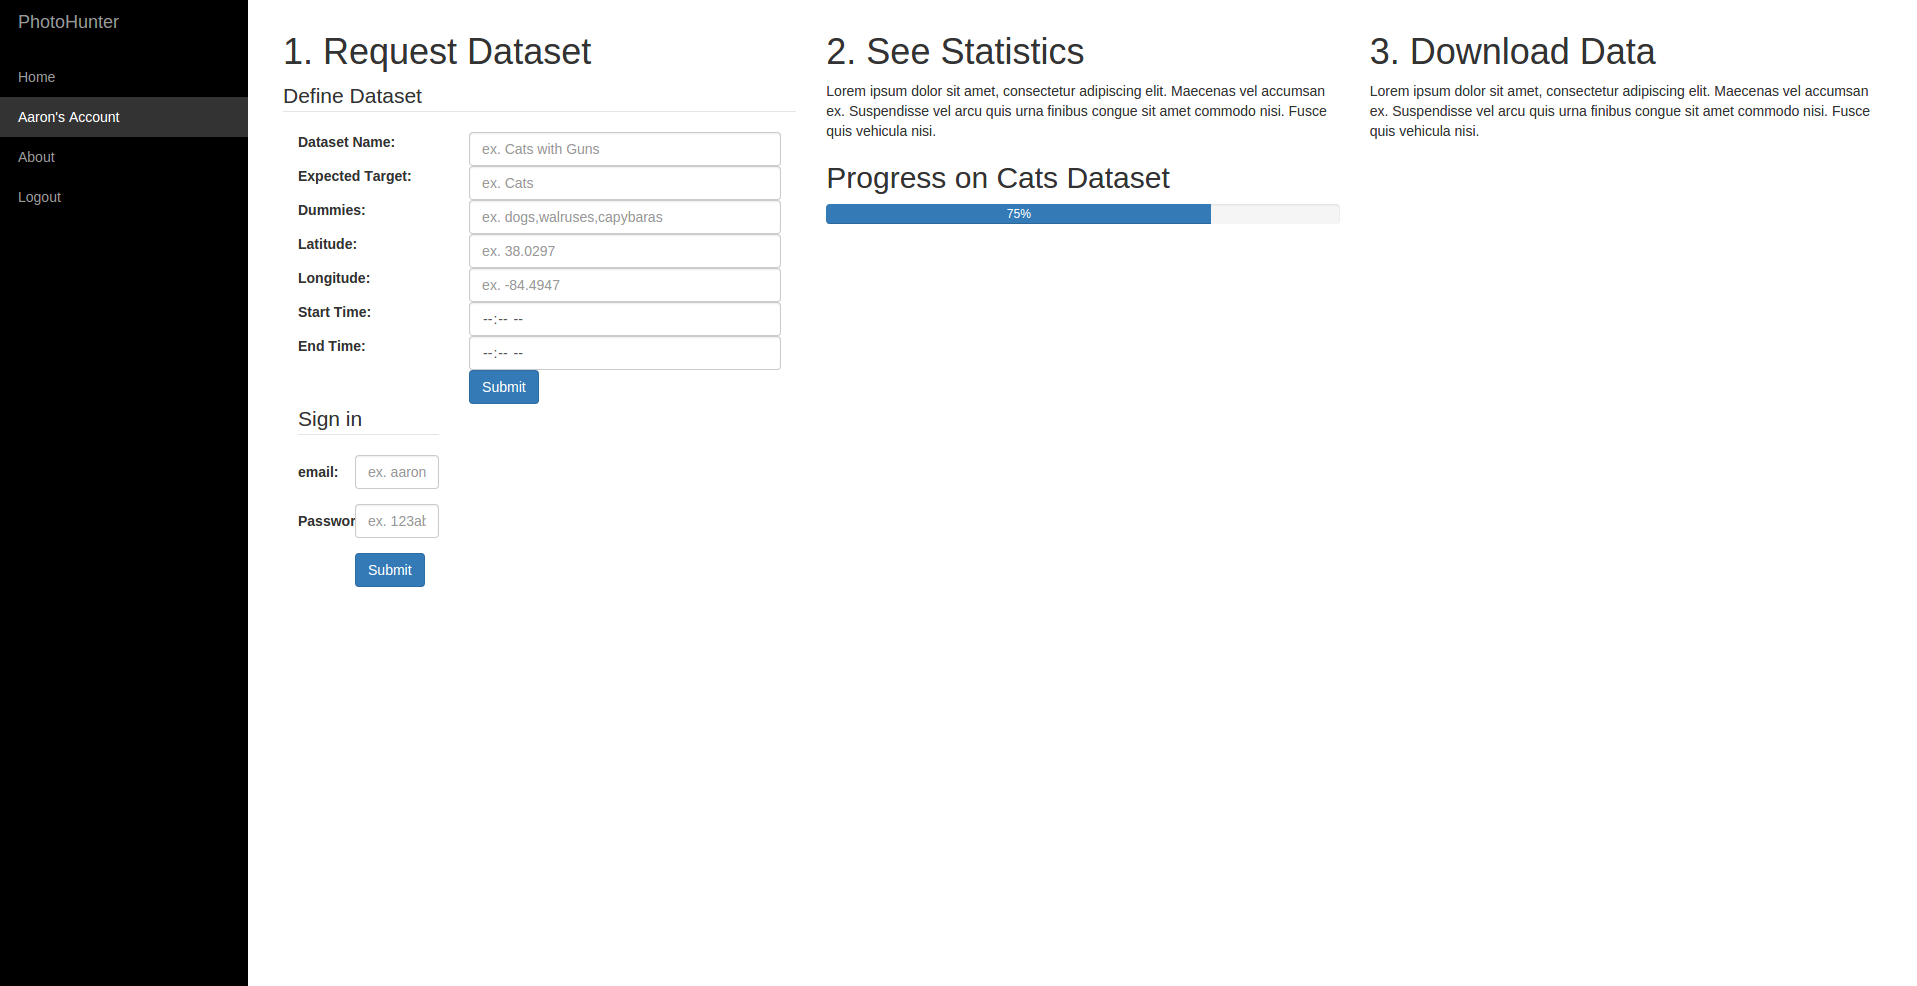
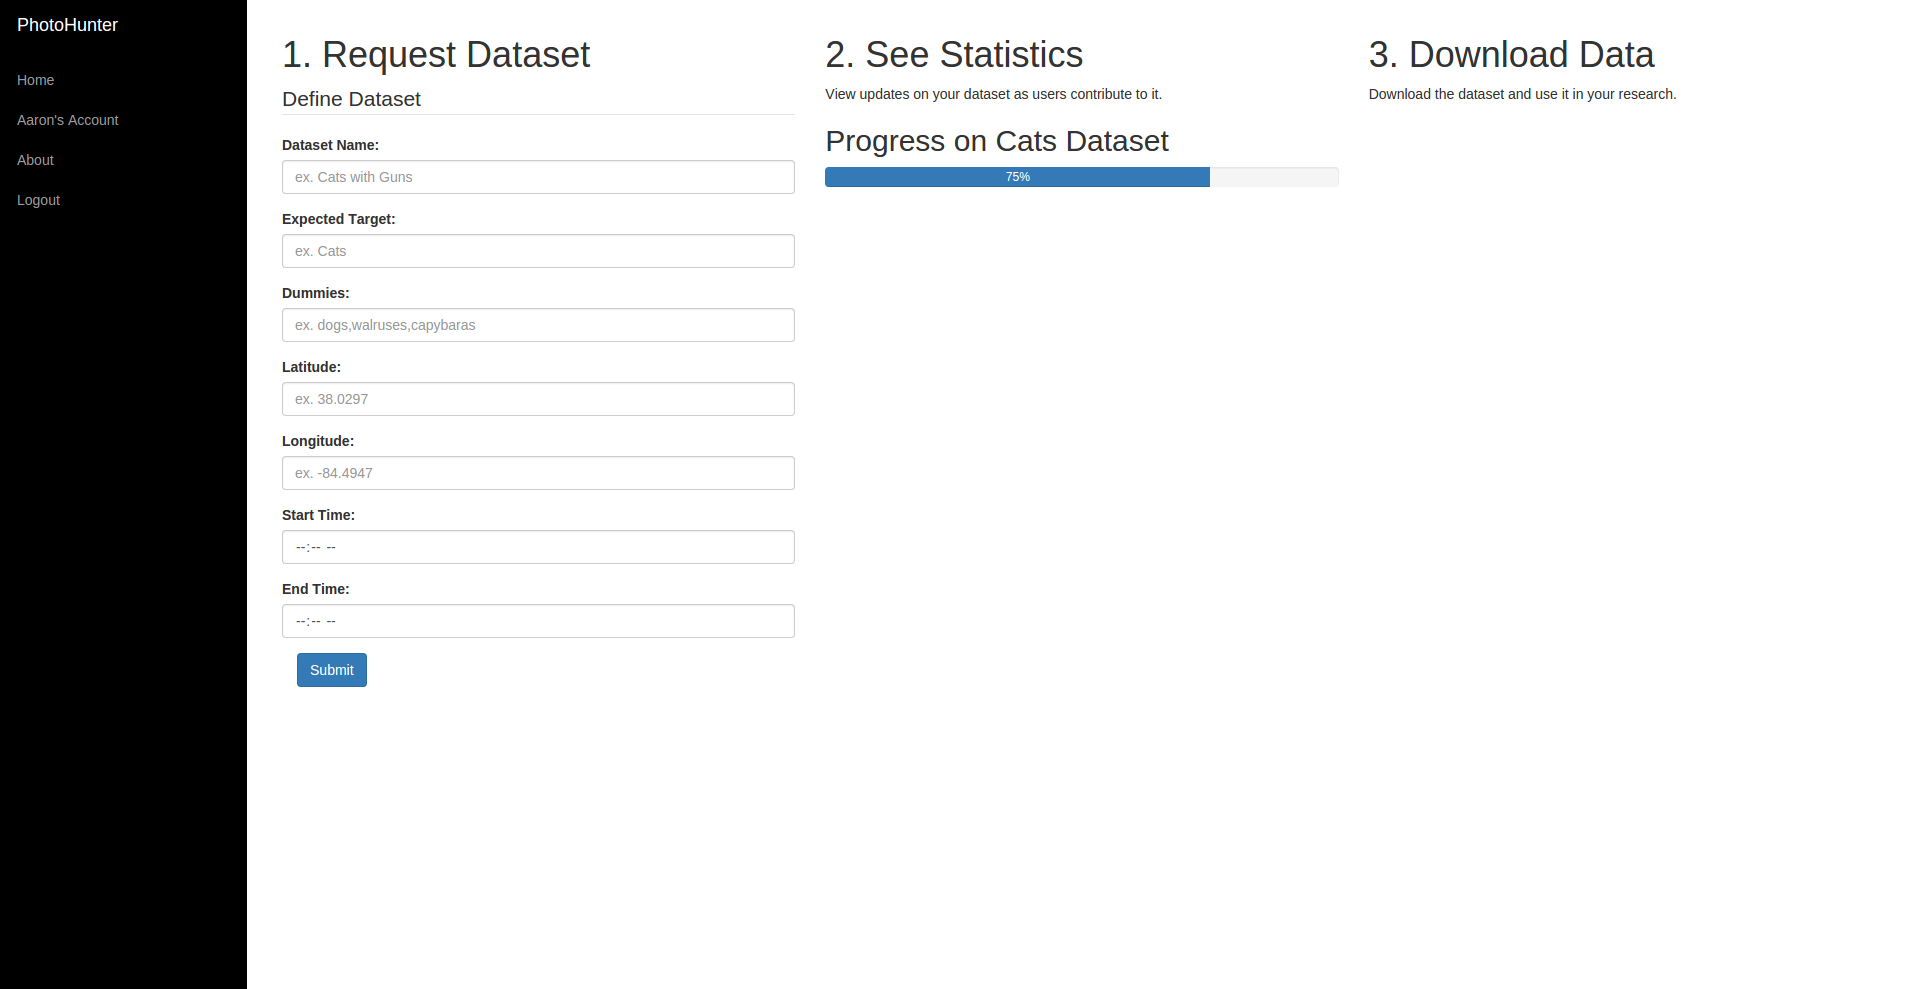
updating researching image and activity log

diff --git a/src/researcherinterface/templates/index.html b/src/researcherinterface/templates/index.html
@@ -134,14 +134,14 @@
 </form>
 
 
-	    {{else}}<p>  Lorem ipsum dolor sit amet, consectetur adipiscing elit. Maecenas vel accumsan ex. Suspendisse vel arcu quis urna finibus congue sit amet commodo nisi. Fusce quis vehicula nisi. </p>{{end}}
+	    {{else}}<p> Describe a dataset that suits your needs.</p>{{end}}
 	    
 	  
 	  </div>
 	  
 	  <div class = "col-lg-4">
 	    <h1> 2. See Statistics </h1>
-	    <p> Lorem ipsum dolor sit amet, consectetur adipiscing elit. Maecenas vel accumsan ex. Suspendisse vel arcu quis urna finibus congue sit amet commodo nisi. Fusce quis vehicula nisi.</p>  
+	    <p> View updates on your dataset as users contribute to it.</p>  
 	    
 	    <h2> Progress on Cats Dataset</h2>
 	    <div class = "progress">
@@ -154,7 +154,7 @@
 	  
 	  <div class = "col-lg-4">
 	    <h1> 3. Download Data </h1>
-	    <p> Lorem ipsum dolor sit amet, consectetur adipiscing elit. Maecenas vel accumsan ex. Suspendisse vel arcu quis urna finibus congue sit amet commodo nisi. Fusce quis vehicula nisi.</p>
+	    <p> Download the dataset and use it in your research.</p>
 	  </div>
 	
 	</div>

diff --git a/website/md/aaron.md b/website/md/aaron.md
@@ -24,6 +24,17 @@ Cheese Whiz
 
 Activity Log
 ------------
+**April 20th, 2015 - April 26th, 2015**
+- Prepared for final presentation
+- Added sessions to the researcher interface
+
+**April 13th, 2015 - April 19th, 2015**
+- Set up the PSQL database to interact with the researcher interface
+- Developed queries and tools for defining datasets
+
+**April 6th, 2015 - April 12th, 2015**
+- Developed test plan for the project
+
 **March 27th, 2015 - April 5th, 2015**
 
 - Continued working on the account system
